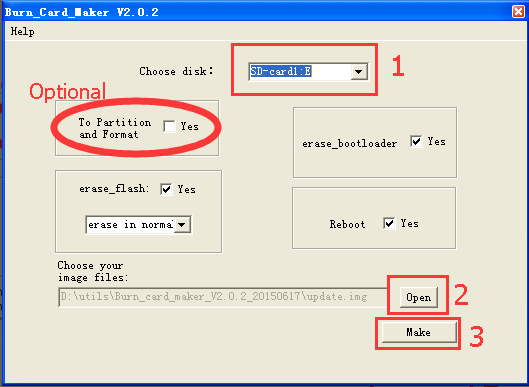
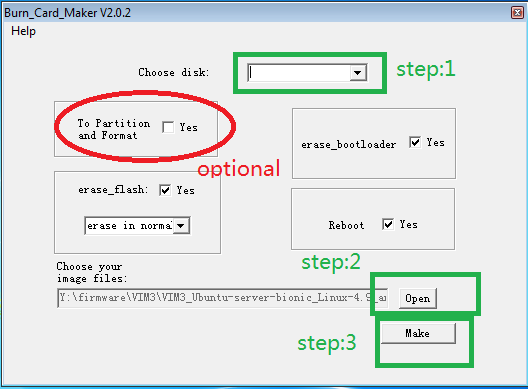
add vim Upgrade via with TF card

diff --git a/source/zh-cn/vim1/UpgradeViaTFBurningCard.md b/source/zh-cn/vim1/UpgradeViaTFBurningCard.md
@@ -1,6 +1,6 @@
 title: 通过TF卡升级固件
 ---
-
+这里以安卓为例，Ubuntu的升级与安卓一致。
 ### 准备工作
 * 下载[Burn Card Maker Tool](https://dl.khadas.com/Tools/Burn_card_maker_V2.0.2_20150617_en.7z) 并解压。
 * 准备好TF卡的读卡器。
@@ -40,6 +40,8 @@ title: 通过TF卡升级固件
 
 ### 更多资料
  * [通过USB-C数据线](/zh-cn/vim1/UpgradeViaUSBCable.html)
- * [怎样进入升级模式](/zh-cn/vim1/HowtoBootIntoUpgradeMode.html)
+ * [VIM1怎样进入升级模式](/zh-cn/vim1/HowtoBootIntoUpgradeMode.html)
+ * [VIM2怎样进入升级模式](/zh-cn/vim2/HowtoBootIntoUpgradeMode.html)
+ * [VIM3怎样进入升级模式](/zh-cn/vim3/HowtoBootIntoUpgradeMode.html)
 
 

diff --git a/source/vim1/UpgradeViaTFBurningCard.md b/source/vim1/UpgradeViaTFBurningCard.md
@@ -1,5 +1,7 @@
-title:  Upgrade Android Via An SD-Card
+title:  Upgrade Android Via Or Ubuntu An SD-Card
 ---
+
+Here's an example of upgrading Android.The way to upgrade Ubuntu is consistent with Android.
 
 ### Preparation:
 
@@ -34,3 +36,4 @@ Have Fun!
 * [Upgrade Via A USB Cable](/vim1/UpgradeViaUSBCable.html)
 * [VIM1 How To Boot Into Upgrade Mode](/vim1/HowtoBootIntoUpgradeMode.html)
 * [VIM2 How To Boot Into Upgrade Mode](/vim2/HowtoBootIntoUpgradeMode.html)
+* [VIM3 How To Boot Into Upgrade Mode](/vim3/HowtoBootIntoUpgradeMode.html)

diff --git a/source/vim3/UpgradeViaTFBurningCard.md b/source/vim3/UpgradeViaTFBurningCard.md
@@ -1,4 +1,1 @@
-title:  Upgrade Android Via An SD-Card
----
-
-# TBD
+../vim1/UpgradeViaTFBurningCard.md
